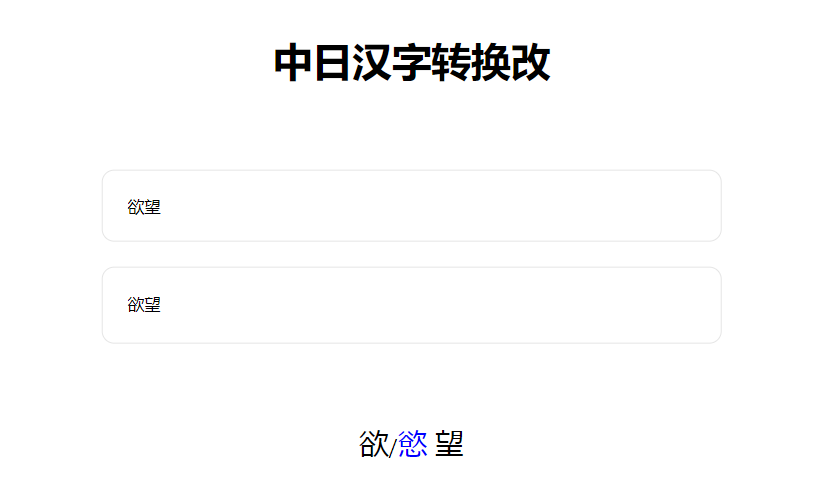
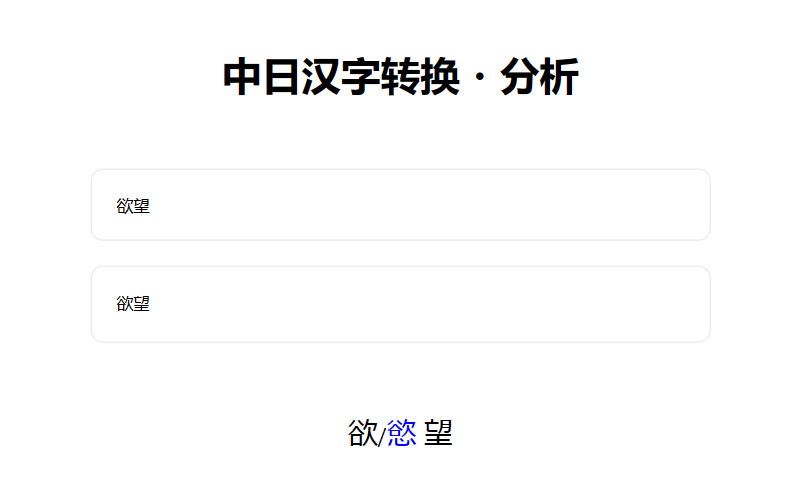
完成Kuromoji部分的README 更改index.html

diff --git a/loadDictionary.js b/loadDictionary.js
@@ -1,3 +1,4 @@
 window.dictionary = {"亚":["亜"],"爱":["愛"],"恶":["悪"],"苇":["葦"],"压":["圧"],"伟":["偉"],"围":["囲"],"为":["為"],"异":["異"],"维":["維"],"纬":["緯"],"违":["違"],"遗":["遺"],"壹":["壱"],"稻":["稲"],"员":["員"],"饮":["飲"],"阴":["陰"],"隐":["隠"],"韵":["韻"],"涡":["渦"],"运":["運"],"营":["営"],"荣":["栄"],"卫":["衛"],"咏":["詠"],"锐":["鋭"],"驿":["駅"],"谒":["謁"],"阅":["閲"],"园":["園"],"烟":["煙"],"缘":["縁"],"远":["遠"],"铅":["鉛"],"盐":["塩"],"污":["汚"],"应":["応"],"冲":["衝"],"亿":["億"],"忆":["憶"],"稳":["穏"],"假":["仮"],"价":["価"],"祸":["禍"],"华":["華"],"课":["課"],"货":["貨"],"过":["過"],"贺":["賀"],"饿":["餓"],"块":["塊"],"坏":["壊"],"怀":["懐"],"绘":["絵"],"开":["開"],"阶":["階"],"贝":["貝"],"该":["該"],"吓":["嚇"],"扩":["拡"],"壳":["殻"],"确":["確"],"觉":["覚"],"较":["較"],"阁":["閣"],"乐":["楽"],"额":["額"],"挂":["掛"],"舄":["潟"],"渴":["渇"],"辖":["轄"],"劝":["勧"],"卷":["巻"],"唤":["喚"],"奸":["姦"],"宽":["寛"],"惯":["慣"],"换":["換"],"欢":["歓"],"汉":["漢"],"环":["環"],"监":["監"],"简":["簡"],"缓":["緩"],"舰":["艦"],"观":["観"],"贯":["貫"],"还":["還"],"鉴":["鑑"],"间":["間"],"闲":["閑"],"关":["関"],"陷":["陥"],"馆":["館"],"顽":["頑"],"颜":["顔"],"愿":["願"],"几":["幾"],"挥":["揮"],"弃":["棄"],"归":["帰"],"气":["気"],"纪":["紀"],"规":["規"],"记":["記"],"贵":["貴"],"轨":["軌"],"辉":["輝"],"饥":["飢"],"骑":["騎"],"伪":["偽"],"仪":["儀"],"戏":["戯"],"拟":["擬"],"义":["義"],"议":["議"],"诘":["詰"],"宫":["宮"],"穷":["窮"],"级":["級"],"纠":["糾"],"给":["給"],"举":["挙"],"许":["許"],"渔":["漁"],"鱼":["魚"],"竞":["競"],"协":["協"],"强":["強"],"桥":["橋"],"况":["況"],"矫":["矯"],"胁":["脅"],"兴":["興"],"乡":["郷"],"镜":["鏡"],"响":["響"],"惊":["驚"],"晓":["暁"],"业":["業"],"极":["極"],"紧":["緊"],"谨":["謹"],"银":["銀"],"驱":["駆"],"缲":["繰"],"勋":["勲"],"熏":["薫"],"训":["訓"],"军":["軍"],"倾":["傾"],"启":["啓"],"惠":["恵"],"庆":["慶"],"揭":["掲"],"溪":["渓"],"经":["経"],"继":["継"],"萤":["蛍"],"计":["計"],"轻":["軽"],"鸡":["鶏"],"鲸":["鯨"],"剧":["劇"],"击":["撃"],"杰":["傑"],"决":["決"],"洁":["潔"],"结":["結"],"俭":["倹"],"剑":["剣"],"圈":["圏"],"坚":["堅"],"宪":["憲"],"悬":["懸"],"检":["検"],"权":["権"],"绢":["絹"],"见":["見"],"谦":["謙"],"贤":["賢"],"轩":["軒"],"险":["険"],"显":["顕"],"验":["験"],"严":["厳"],"减":["減"],"现":["現"],"个":["個"],"库":["庫"],"户":["戸"],"夸":["誇"],"顾":["顧"],"吴":["呉"],"娱":["娯"],"语":["語"],"误":["誤"],"护":["護"],"效":["効"],"广":["広"],"构":["構"],"沟":["溝"],"红":["紅"],"绞":["絞"],"纲":["綱"],"讲":["講"],"贡":["貢"],"购":["購"],"矿":["鉱"],"钢":["鋼"],"项":["項"],"刚":["剛"],"黑":["黒"],"狱":["獄"],"垦":["墾"],"恳":["懇"],"绀":["紺"],"查":["査"],"诈":["詐"],"锁":["鎖"],"债":["債"],"岁":["歳"],"济":["済"],"灾":["災"],"碎":["砕"],"斋":["斎"],"细":["細"],"载":["載"],"际":["際"],"剂":["剤"],"财":["財"],"错":["錯"],"樱":["桜"],"册":["冊"],"杀":["殺"],"杂":["雑"],"伞":["傘"],"栈":["桟"],"暂":["暫"],"姊":["姉"],"师":["師"],"纟":["糸"],"纸":["紙"],"视":["視"],"词":["詞"],"诗":["詩"],"试":["試"],"咨":["諮"],"资":["資"],"赐":["賜"],"饲":["飼"],"齿":["歯"],"儿":["児"],"时":["時"],"玺":["璽"],"识":["識"],"轴":["軸"],"执":["執"],"质":["質"],"实":["実"],"舍":["舎"],"谢":["謝"],"车":["車"],"释":["釈"],"种":["種"],"树":["樹"],"收":["収"],"终":["終"],"习":["習"],"袭":["襲"],"从":["従"],"涩":["渋"],"兽":["獣"],"纵":["縦"],"铳":["銃"],"缩":["縮"],"肃":["粛"],"术":["術"],"润":["潤"],"纯":["純"],"顺":["順"],"绪":["緒"],"书":["書"],"诸":["諸"],"伤":["傷"],"偿":["償"],"胜":["勝"],"奖":["奨"],"涉":["渉"],"烧":["焼"],"绍":["紹"],"讼":["訟"],"诏":["詔"],"详":["詳"],"赏":["賞"],"钟":["鐘"],"乘":["乗"],"剩":["剰"],"场":["場"],"壤":["壌"],"娘":["嬢"],"净":["浄"],"叠":["畳"],"让":["譲"],"酿":["醸"],"锭":["錠"],"饰":["飾"],"织":["織"],"职":["職"],"审":["審"],"绅":["紳"],"亲":["親"],"诊":["診"],"进":["進"],"针":["針"],"寻":["尋"],"阵":["陣"],"图":["図"],"帅":["帥"],"粹":["粋"],"醉":["酔"],"锤":["錘"],"髓":["髄"],"濑":["瀬"],"亩":["畝"],"势":["勢"],"圣":["聖"],"诚":["誠"],"请":["請"],"齐":["斉"],"积":["積"],"绩":["績"],"责":["責"],"迹":["跡"],"摄":["摂"],"设":["設"],"节":["節"],"绝":["絶"],"专":["専"],"战":["戦"],"缐":["線"],"纤":["繊"],"荐":["薦"],"选":["選"],"迁":["遷"],"钱":["銭"],"铣":["銑"],"鲜":["鮮"],"渐":["漸"],"缮":["繕"],"础":["礎"],"组":["組"],"诉":["訴"],"创":["創"],"仓":["倉"],"丧":["喪"],"层":["層"],"搜":["捜"],"扫":["掃"],"插":["挿"],"巢":["巣"],"窗":["窓"],"总":["総"],"骚":["騒"],"增":["増"],"脏":["臓"],"藏":["蔵"],"赠":["贈"],"侧":["側"],"则":["則"],"测":["測"],"贼":["賊"],"续":["続"],"孙":["孫"],"损":["損"],"驮":["駄"],"对":["対"],"带":["帯"],"态":["態"],"贷":["貸"],"队":["隊"],"题":["題"],"泷":["瀧"],"择":["択"],"泽":["沢","澤"],"浊":["濁"],"诺":["諾"],"达":["達"],"夺":["奪"],"单":["単"],"叹":["嘆"],"诞":["誕"],"锻":["鍛"],"团":["団"],"坛":["壇"],"弹":["弾"],"谈":["談"],"值":["値"],"耻":["恥"],"迟":["遅"],"驻":["駐"],"贮":["貯"],"帐":["帳"],"厅":["庁"],"张":["張"],"惩":["懲"],"听":["聴"],"胀":["脹"],"肠":["腸"],"调":["調"],"长":["長"],"顶":["頂"],"鸟":["鳥"],"敕":["勅"],"赁":["賃"],"镇":["鎮"],"陈":["陳"],"坠":["墜"],"冢":["塚"],"渍":["漬"],"钓":["釣"],"侦":["偵"],"贞":["貞"],"缔":["締"],"订":["訂"],"递":["逓"],"敌":["敵"],"适":["適"],"彻":["徹"],"转":["転"],"传":["伝"],"电":["電"],"涂":["塗"],"冻":["凍"],"岛":["島"],"东":["東"],"栋":["棟"],"汤":["湯"],"统":["統"],"讨":["討"],"誊":["謄"],"头":["頭"],"腾":["騰"],"动":["動","働"],"导":["導"],"铜":["銅"],"德":["徳"],"笃":["篤"],"读":["読"],"昙":["曇"],"钝":["鈍"],"绳":["縄"],"软":["軟"],"难":["難"],"贰":["弐"],"认":["認"],"宁":["寧"],"热":["熱"],"恼":["悩"],"浓":["濃"],"纳":["納"],"脑":["脳"],"农":["農"],"霸":["覇"],"马":["馬"],"废":["廃"],"拜":["拝"],"败":["敗"],"辈":["輩"],"买":["買"],"卖":["売"],"赔":["賠"],"缚":["縛"],"发":["発","髪"],"罚":["罰"],"拔":["抜"],"阀":["閥"],"贩":["販"],"范":["範"],"烦":["煩"],"颁":["頒"],"饭":["飯"],"盘":["盤"],"罢":["罷"],"费":["費"],"飞":["飛"],"备":["備"],"笔":["筆"],"标":["標"],"冰":["氷"],"评":["評"],"贫":["貧"],"宾":["賓"],"频":["頻"],"妇":["婦"],"肤":["膚"],"谱":["譜"],"负":["負"],"赋":["賦"],"风":["風"],"复":["復","複"],"拂":["払"],"佛":["仏"],"喷":["噴"],"坟":["墳"],"愤":["憤"],"奋":["奮"],"纷":["紛"],"氛":["雰"],"闻":["聞"],"币":["幣"],"并":["並"],"闭":["閉"],"别":["別"],"变":["変"],"编":["編"],"边":["辺"],"铺":["鋪"],"步":["歩"],"补":["補"],"穗":["穂"],"报":["報"],"缝":["縫"],"访":["訪"],"饱":["飽"],"纺":["紡"],"谋":["謀"],"贸":["貿"],"仆":["僕"],"扑":["撲"],"每":["毎"],"茧":["繭"],"满":["満"],"脉":["脈"],"务":["務"],"梦":["夢"],"无":["無"],"雾":["霧"],"铭":["銘"],"鸣":["鳴"],"灭":["滅"],"绵":["綿"],"网":["網"],"默":["黙"],"问":["問"],"闷":["悶"],"纹":["紋"],"门":["門"],"约":["約"],"药":["薬"],"译":["訳"],"跃":["躍"],"谕":["諭"],"输":["輸"],"优":["優"],"忧":["憂"],"犹":["猶"],"诱":["誘"],"游":["遊"],"邮":["郵"],"预":["預"],"扬":["揚"],"摇":["揺"],"拥":["擁"],"杨":["楊"],"样":["様"],"窑":["窯"],"谣":["謡"],"阳":["陽"],"养":["養"],"罗":["羅"],"赖":["頼"],"络":["絡"],"栏":["欄"],"滥":["濫"],"览":["覧"],"里":["裏","裡","里"],"离":["離"],"陆":["陸"],"虑":["慮"],"虏":["虜"],"两":["両"],"凉":["涼"],"猎":["猟"],"疗":["療"],"粮":["糧"],"领":["領"],"绿":["緑"],"伦":["倫"],"临":["臨"],"轮":["輪"],"垒":["塁"],"泪":["涙"],"类":["類"],"铃":["鈴"],"灵":["霊"],"丽":["麗"],"龄":["齢"],"历":["暦"],"练":["練"],"连":["連"],"炼":["錬"],"劳":["労"],"录":["録"],"论":["論"],"话":["話"],"贿":["賄"],"绚":["絢"],"绫":["綾"],"谓":["謂"],"荫":["陰","蔭"],"乌":["烏"],"窥":["窺"],"呗":["唄"],"鳗":["鰻"],"闰":["閏"],"饵":["餌"],"婴":["嬰"],"颖":["穎"],"颕":["頴"],"厌":["厭"],"焰":["焔"],"艳":["艶"],"鸳":["鴛"],"于":["於"],"袄":["襖"],"莺":["鴬"],"哗":["嘩"],"卧":["臥"],"驾":["駕"],"凯":["凱"],"盖":["蓋"],"铠":["鎧"],"钩":["鈎"],"划":["劃"],"搅":["撹"],"获":["獲"],"顎":["鰍"],"鲣":["鰹"],"桦":["樺"],"鸭":["鴨"],"涧":["澗"],"韩":["韓"],"赝":["贋"],"龟":["亀"],"牺":["犠"],"蚁":["蟻"],"谊":["誼"],"锯":["鋸"],"侨":["僑"],"乔":["喬"],"荞":["蕎"],"飨":["饗"],"仅":["僅"],"锦":["錦"],"钦":["欽"],"俱":["倶"],"驹":["駒"],"栉":["櫛"],"钏":["釧"],"辔":["轡"],"洼":["窪"],"锹":["鍬"],"诣":["詣"],"诀":["訣"],"牵":["牽"],"砚":["硯"],"县":["県"],"键":["鍵"],"谚":["諺"],"钴":["鈷"],"鲤":["鯉"],"纮":["紘"],"鸿":["鴻"],"轰":["轟"],"鹄":["鵠"],"顷":["頃"],"鹭":["鷺"],"栅":["柵"],"鲑":["鮭"],"萨":["薩"],"鲭":["鯖"],"锖":["錆"],"鲛":["鮫"],"灿":["燦"],"产":["産"],"赞":["賛"],"斩":["斬"],"尸":["屍"],"狮":["獅"],"尔":["爾"],"莳":["蒔"],"缟":["縞"],"纱":["紗"],"锡":["錫"],"肿":["腫"],"绶":["綬"],"众":["衆"],"辑":["輯"],"骏":["駿"],"准":["準","准"],"处":["処"],"锄":["鋤"],"尝":["嘗"],"厂":["廠"],"证":["証"],"酱":["醤"],"钲":["鉦"],"扰":["擾"],"烛":["蝕"],"尘":["塵"],"肾":["腎"],"讯":["訊"],"诹":["諏"],"须":["須"],"锥":["錐"],"趋":["趨"],"雏":["雛"],"颇":["頗"],"栖":["棲","栖"],"硕":["碩"],"说":["説"],"诠":["詮"],"贱":["賎"],"闪":["閃"],"苏":["蘇"],"丛":["叢"],"枪":["槍"],"综":["綜"],"苍":["蒼"],"逊":["遜"],"鲷":["鯛"],"鹰":["鷹"],"托":["託"],"铎":["鐸"],"竖":["竪"],"鳕":["鱈"],"谁":["誰"],"绽":["綻"],"驰":["馳"],"铸":["鋳"],"苎":["苧"],"宠":["寵"],"畅":["暢"],"谍":["諜"],"铫":["銚"],"茑":["蔦"],"缀":["綴"],"溃":["潰"],"壶":["壺"],"鹤":["鶴"],"祯":["禎"],"谛":["諦"],"郑":["鄭"],"钉":["釘"],"镝":["鏑"],"辙":["轍"],"铁":["鉄"],"缠":["纏"],"贴":["貼"],"颠":["顛"],"淀":["澱"],"兔":["兎"],"赌":["賭"],"镀":["鍍"],"荡":["蕩"],"镫":["鐙"],"鸨":["鴇"],"秃":["禿"],"鸢":["鳶"],"吨":["噸"],"顿":["頓"],"谜":["謎"],"滩":["灘"],"锅":["鍋"],"驯":["馴"],"赈":["賑"],"祢":["禰","祢"],"脓":["膿"],"骂":["罵"],"狈":["狽"],"这":["這"],"驳":["駁"],"栌":["櫨"],"钵":["鉢"],"鸠":["鳩"],"绯":["緋"],"诽":["誹"],"毕":["畢"],"纽":["紐"],"谬":["謬"],"庙":["廟"],"锚":["錨"],"鳍":["鰭"],"濒":["瀕"],"抚":["撫"],"芜":["蕪"],"枫":["楓"],"渊":["淵"],"鲋":["鮒"],"粪":["糞"],"页":["頁"],"辅":["輔"],"仿":["倣"],"丰":["豊"],"锋":["鋒"],"凤":["鳳"],"鹏":["鵬"],"颊":["頬"],"鲔":["鮪"],"鳟":["鱒"],"鹉":["鵡"],"缅":["緬"],"储":["儲"],"饼":["餅"],"贳":["貰"],"爷":["爺"],"涌":["湧","涌"],"舆":["輿"],"佣":["傭"],"欲":["欲","慾"],"岚":["嵐"],"蓝":["藍"],"兰":["蘭"],"刘":["劉"],"龙":["竜","龍"],"侣":["侶"],"谅":["諒"],"邻":["隣"],"鳞":["鱗"],"岭":["嶺"],"隶":["隷"],"涟":["漣"],"帘":["簾"],"怜":["怜","憐"],"联":["聯"],"莲":["蓮"],"吕":["呂"],"鲁":["魯"],"橹":["櫓"],"赂":["賂"],"娄":["婁"],"聋":["聾"],"鹫":["鷲"],"鳄":["鰐"],"诧":["詫"],"干":["干","乾"]};
 window.shiftjis1List = ["亜", "唖", "娃", "阿", "哀", "愛", "挨", "姶", "逢", "葵", "茜", "穐", "悪", "握", "渥", "旭", "葦", "芦", "鯵", "梓", "圧", "斡", "扱", "宛", "姐", "虻", "飴", "絢", "綾", "鮎", "或", "粟", "袷", "安", "庵", "按", "暗", "案", "闇", "鞍", "杏", "以", "伊", "位", "依", "偉", "囲", "夷", "委", "威", "尉", "惟", "意", "慰", "易", "椅", "為", "畏", "異", "移", "維", "緯", "胃", "萎", "衣", "謂", "違", "遺", "医", "井", "亥", "域", "育", "郁", "磯", "一", "壱", "溢", "逸", "稲", "茨", "芋", "鰯", "允", "印", "咽", "員", "因", "姻", "引", "飲", "淫", "胤", "蔭", "院", "陰", "隠", "韻", "吋", "右", "宇", "烏", "羽", "迂", "雨", "卯", "鵜", "窺", "丑", "碓", "臼", "渦", "嘘", "唄", "欝", "蔚", "鰻", "姥", "厩", "浦", "瓜", "閏", "噂", "云", "運", "雲", "荏", "餌", "叡", "営", "嬰", "影", "映", "曳", "栄", "永", "泳", "洩", "瑛", "盈", "穎", "頴", "英", "衛", "詠", "鋭", "液", "疫", "益", "駅", "悦", "謁", "越", "閲", "榎", "厭", "円", "園", "堰", "奄", "宴", "延", "怨", "掩", "援", "沿", "演", "炎", "焔", "煙", "燕", "猿", "縁", "艶", "苑", "薗", "遠", "鉛", "鴛", "塩", "於", "汚", "甥", "凹", "央", "奥", "往", "応", "点", "押", "旺", "横", "欧", "殴", "王", "翁", "襖", "鴬", "鴎", "黄", "岡", "沖", "荻", "億", "屋", "憶", "臆", "桶", "牡", "乙", "俺", "卸", "恩", "温", "穏", "音", "下", "化", "仮", "何", "伽", "価", "佳", "加", "可", "嘉", "夏", "嫁", "家", "寡", "科", "暇", "果", "架", "歌", "河", "火", "珂", "禍", "禾", "稼", "箇", "花", "苛", "茄", "荷", "華", "菓", "蝦", "課", "嘩", "貨", "迦", "過", "霞", "蚊", "俄", "峨", "我", "牙", "画", "臥", "芽", "蛾", "賀", "雅", "餓", "駕", "介", "会", "解", "回", "塊", "壊", "廻", "快", "怪", "悔", "恢", "懐", "戒", "拐", "改", "魁", "晦", "械", "海", "灰", "界", "皆", "絵", "芥", "蟹", "開", "階", "貝", "凱", "劾", "外", "咳", "害", "崖", "慨", "概", "涯", "碍", "蓋", "街", "該", "鎧", "骸", "浬", "馨", "蛙", "垣", "柿", "蛎", "鈎", "劃", "嚇", "各", "廓", "拡", "撹", "格", "核", "殻", "獲", "確", "穫", "覚", "角", "赫", "較", "郭", "閣", "隔", "革", "学", "岳", "楽", "額", "顎", "掛", "笠", "樫", "橿", "梶", "鰍", "潟", "割", "喝", "恰", "括", "活", "渇", "滑", "葛", "褐", "轄", "且", "鰹", "叶", "椛", "樺", "鞄", "株", "兜", "竃", "蒲", "釜", "鎌", "噛", "鴨", "栢", "茅", "萱", "粥", "刈", "苅", "瓦", "乾", "侃", "冠", "寒", "刊", "勘", "勧", "巻", "喚", "堪", "姦", "完", "官", "寛", "干", "幹", "患", "感", "慣", "憾", "換", "敢", "柑", "桓", "棺", "款", "歓", "汗", "漢", "澗", "潅", "環", "甘", "監", "看", "竿", "管", "簡", "緩", "缶", "翰", "肝", "艦", "莞", "観", "諌", "貫", "還", "鑑", "間", "閑", "関", "陥", "韓", "館", "舘", "丸", "含", "岸", "巌", "玩", "癌", "眼", "岩", "翫", "贋", "雁", "頑", "顔", "願", "企", "伎", "危", "喜", "器", "基", "奇", "嬉", "寄", "岐", "希", "幾", "忌", "揮", "机", "旗", "既", "期", "棋", "棄", "機", "帰", "毅", "気", "汽", "畿", "祈", "季", "稀", "紀", "徽", "規", "記", "貴", "起", "軌", "輝", "飢", "騎", "鬼", "亀", "偽", "儀", "妓", "宜", "戯", "技", "擬", "欺", "犠", "疑", "祇", "義", "蟻", "誼", "議", "掬", "菊", "鞠", "吉", "吃", "喫", "桔", "橘", "詰", "砧", "杵", "黍", "却", "客", "脚", "虐", "逆", "丘", "久", "仇", "休", "及", "吸", "宮", "弓", "急", "救", "朽", "求", "汲", "泣", "灸", "球", "究", "窮", "笈", "級", "糾", "給", "旧", "牛", "去", "居", "巨", "拒", "拠", "挙", "渠", "虚", "許", "距", "鋸", "漁", "禦", "魚", "亨", "享", "京", "供", "侠", "僑", "兇", "競", "共", "凶", "協", "匡", "卿", "叫", "喬", "境", "峡", "強", "彊", "怯", "恐", "恭", "挟", "教", "橋", "況", "狂", "狭", "矯", "胸", "脅", "興", "蕎", "郷", "鏡", "響", "饗", "驚", "仰", "凝", "尭", "暁", "業", "局", "曲", "極", "玉", "桐", "粁", "僅", "勤", "均", "巾", "錦", "斤", "欣", "欽", "琴", "禁", "禽", "筋", "緊", "芹", "菌", "衿", "襟", "謹", "近", "金", "吟", "銀", "九", "倶", "句", "区", "狗", "玖", "矩", "苦", "躯", "駆", "駈", "駒", "具", "愚", "虞", "喰", "空", "偶", "寓", "遇", "隅", "串", "櫛", "釧", "屑", "屈", "掘", "窟", "沓", "靴", "轡", "窪", "熊", "隈", "粂", "栗", "繰", "桑", "鍬", "勲", "君", "薫", "訓", "群", "軍", "郡", "卦", "袈", "祁", "係", "傾", "刑", "兄", "啓", "圭", "珪", "型", "契", "形", "径", "恵", "慶", "慧", "憩", "掲", "携", "敬", "景", "桂", "渓", "畦", "稽", "系", "経", "継", "繋", "罫", "茎", "荊", "蛍", "計", "詣", "警", "軽", "頚", "鶏", "芸", "迎", "鯨", "劇", "戟", "撃", "激", "隙", "桁", "傑", "欠", "決", "潔", "穴", "結", "血", "訣", "月", "件", "倹", "倦", "健", "兼", "券", "剣", "喧", "圏", "堅", "嫌", "建", "憲", "懸", "拳", "捲", "検", "権", "牽", "犬", "献", "研", "硯", "絹", "県", "肩", "見", "謙", "賢", "軒", "遣", "鍵", "険", "顕", "験", "鹸", "元", "原", "厳", "幻", "弦", "減", "源", "玄", "現", "絃", "舷", "言", "諺", "限", "乎", "個", "古", "呼", "固", "姑", "孤", "己", "庫", "弧", "戸", "故", "枯", "湖", "狐", "糊", "袴", "股", "胡", "菰", "虎", "誇", "跨", "鈷", "雇", "顧", "鼓", "五", "互", "伍", "午", "呉", "吾", "娯", "後", "御", "悟", "梧", "檎", "瑚", "碁", "語", "誤", "護", "醐", "乞", "鯉", "交", "佼", "侯", "候", "倖", "光", "公", "功", "効", "勾", "厚", "口", "向", "后", "喉", "坑", "垢", "好", "孔", "孝", "宏", "工", "巧", "巷", "幸", "広", "庚", "康", "弘", "恒", "慌", "抗", "拘", "控", "攻", "昂", "晃", "更", "杭", "校", "梗", "構", "江", "洪", "浩", "港", "溝", "甲", "皇", "硬", "稿", "糠", "紅", "紘", "絞", "綱", "耕", "考", "肯", "肱", "腔", "膏", "航", "荒", "行", "衡", "講", "貢", "購", "郊", "酵", "鉱", "砿", "鋼", "閤", "降", "項", "香", "高", "鴻", "剛", "劫", "号", "合", "壕", "拷", "濠", "豪", "轟", "麹", "克", "刻", "告", "国", "穀", "酷", "鵠", "黒", "獄", "漉", "腰", "甑", "忽", "惚", "骨", "狛", "込", "此", "頃", "今", "困", "坤", "墾", "婚", "恨", "懇", "昏", "昆", "根", "梱", "混", "痕", "紺", "艮", "魂", "些", "佐", "叉", "唆", "嵯", "左", "差", "査", "沙", "瑳", "砂", "詐", "鎖", "裟", "坐", "座", "挫", "債", "催", "再", "最", "哉", "塞", "妻", "宰", "彩", "才", "採", "栽", "歳", "済", "災", "采", "犀", "砕", "砦", "祭", "斎", "細", "菜", "裁", "載", "際", "剤", "在", "材", "罪", "財", "冴", "坂", "阪", "堺", "榊", "肴", "咲", "崎", "埼", "碕", "鷺", "作", "削", "咋", "搾", "昨", "朔", "柵", "窄", "策", "索", "錯", "桜", "鮭", "笹", "匙", "冊", "刷", "察", "拶", "撮", "擦", "札", "殺", "薩", "雑", "皐", "鯖", "捌", "錆", "鮫", "皿", "晒", "三", "傘", "参", "山", "惨", "撒", "散", "桟", "燦", "珊", "産", "算", "纂", "蚕", "讃", "賛", "酸", "餐", "斬", "暫", "残", "仕", "仔", "伺", "使", "刺", "司", "史", "嗣", "四", "士", "始", "姉", "姿", "子", "屍", "市", "師", "志", "思", "指", "支", "孜", "斯", "施", "旨", "枝", "止", "死", "氏", "獅", "祉", "私", "糸", "紙", "紫", "肢", "脂", "至", "視", "詞", "詩", "試", "誌", "諮", "資", "賜", "雌", "飼", "歯", "事", "似", "侍", "児", "字", "寺", "慈", "持", "時", "次", "滋", "治", "爾", "璽", "痔", "磁", "示", "而", "耳", "自", "蒔", "辞", "汐", "鹿", "式", "識", "鴫", "竺", "軸", "宍", "雫", "七", "叱", "執", "失", "嫉", "室", "悉", "湿", "漆", "疾", "質", "実", "蔀", "篠", "偲", "柴", "芝", "屡", "蕊", "縞", "舎", "写", "射", "捨", "赦", "斜", "煮", "社", "紗", "者", "謝", "車", "遮", "蛇", "邪", "借", "勺", "尺", "杓", "灼", "爵", "酌", "釈", "錫", "若", "寂", "弱", "惹", "主", "取", "守", "手", "朱", "殊", "狩", "珠", "種", "腫", "趣", "酒", "首", "儒", "受", "呪", "寿", "授", "樹", "綬", "需", "囚", "収", "周", "宗", "就", "州", "修", "愁", "拾", "洲", "秀", "秋", "終", "繍", "習", "臭", "舟", "蒐", "衆", "襲", "讐", "蹴", "輯", "週", "酋", "酬", "集", "醜", "什", "住", "充", "十", "従", "戎", "柔", "汁", "渋", "獣", "縦", "重", "銃", "叔", "夙", "宿", "淑", "祝", "縮", "粛", "塾", "熟", "出", "術", "述", "俊", "峻", "春", "瞬", "竣", "舜", "駿", "准", "循", "旬", "楯", "殉", "淳", "準", "潤", "盾", "純", "巡", "遵", "醇", "順", "処", "初", "所", "暑", "曙", "渚", "庶", "緒", "署", "書", "薯", "藷", "諸", "助", "叙", "女", "序", "徐", "恕", "鋤", "除", "傷", "償", "勝", "匠", "升", "召", "哨", "商", "唱", "嘗", "奨", "妾", "娼", "宵", "将", "小", "少", "尚", "庄", "床", "廠", "彰", "承", "抄", "招", "掌", "捷", "昇", "昌", "昭", "晶", "松", "梢", "樟", "樵", "沼", "消", "渉", "湘", "焼", "焦", "照", "症", "省", "硝", "礁", "祥", "称", "章", "笑", "粧", "紹", "肖", "菖", "蒋", "蕉", "衝", "裳", "訟", "証", "詔", "詳", "象", "賞", "醤", "鉦", "鍾", "鐘", "障", "鞘", "上", "丈", "丞", "乗", "冗", "剰", "城", "場", "壌", "嬢", "常", "情", "擾", "条", "杖", "浄", "状", "畳", "穣", "蒸", "譲", "醸", "錠", "嘱", "埴", "飾", "拭", "植", "殖", "燭", "織", "職", "色", "触", "食", "蝕", "辱", "尻", "伸", "信", "侵", "唇", "娠", "寝", "審", "心", "慎", "振", "新", "晋", "森", "榛", "浸", "深", "申", "疹", "真", "神", "秦", "紳", "臣", "芯", "薪", "親", "診", "身", "辛", "進", "針", "震", "人", "仁", "刃", "塵", "壬", "尋", "甚", "尽", "腎", "訊", "迅", "陣", "靭", "笥", "諏", "須", "酢", "図", "厨", "逗", "吹", "垂", "帥", "推", "水", "炊", "睡", "粋", "翠", "衰", "遂", "酔", "錐", "錘", "随", "瑞", "髄", "崇", "嵩", "数", "枢", "趨", "雛", "据", "杉", "椙", "菅", "頗", "雀", "裾", "澄", "摺", "寸", "世", "瀬", "畝", "是", "凄", "制", "勢", "姓", "征", "性", "成", "政", "整", "星", "晴", "棲", "栖", "正", "清", "牲", "生", "盛", "精", "聖", "声", "製", "西", "誠", "誓", "請", "逝", "醒", "青", "静", "斉", "税", "脆", "隻", "席", "惜", "戚", "斥", "昔", "析", "石", "積", "籍", "績", "脊", "責", "赤", "跡", "蹟", "碩", "切", "拙", "接", "摂", "折", "設", "窃", "節", "説", "雪", "絶", "舌", "蝉", "仙", "先", "千", "占", "宣", "専", "尖", "川", "戦", "扇", "撰", "栓", "栴", "泉", "浅", "洗", "染", "潜", "煎", "煽", "旋", "穿", "箭", "線", "繊", "羨", "腺", "舛", "船", "薦", "詮", "賎", "践", "選", "遷", "銭", "銑", "閃", "鮮", "前", "善", "漸", "然", "全", "禅", "繕", "膳", "糎", "噌", "塑", "岨", "措", "曾", "曽", "楚", "狙", "疏", "疎", "礎", "祖", "租", "粗", "素", "組", "蘇", "訴", "阻", "遡", "鼠", "僧", "創", "双", "叢", "倉", "喪", "壮", "奏", "爽", "宋", "層", "匝", "惣", "想", "捜", "掃", "挿", "掻", "操", "早", "曹", "巣", "槍", "槽", "漕", "燥", "争", "痩", "相", "窓", "糟", "総", "綜", "聡", "草", "荘", "葬", "蒼", "藻", "装", "走", "送", "遭", "鎗", "霜", "騒", "像", "増", "憎", "臓", "蔵", "贈", "造", "促", "側", "則", "即", "息", "捉", "束", "測", "足", "速", "俗", "属", "賊", "族", "続", "卒", "袖", "其", "揃", "存", "孫", "尊", "損", "村", "遜", "他", "多", "太", "汰", "詑", "唾", "堕", "妥", "惰", "打", "柁", "舵", "楕", "陀", "駄", "騨", "体", "堆", "対", "耐", "岱", "帯", "待", "怠", "態", "戴", "替", "泰", "滞", "胎", "腿", "苔", "袋", "貸", "退", "逮", "隊", "黛", "鯛", "代", "台", "大", "第", "醍", "題", "鷹", "滝", "瀧", "卓", "啄", "宅", "托", "択", "拓", "沢", "濯", "琢", "託", "鐸", "濁", "諾", "茸", "凧", "蛸", "只", "叩", "但", "達", "辰", "奪", "脱", "巽", "竪", "辿", "棚", "谷", "狸", "鱈", "樽", "誰", "丹", "単", "嘆", "坦", "担", "探", "旦", "歎", "淡", "湛", "炭", "短", "端", "箪", "綻", "耽", "胆", "蛋", "誕", "鍛", "団", "壇", "弾", "断", "暖", "檀", "段", "男", "談", "値", "知", "地", "弛", "恥", "智", "池", "痴", "稚", "置", "致", "蜘", "遅", "馳", "築", "畜", "竹", "筑", "蓄", "逐", "秩", "窒", "茶", "嫡", "着", "中", "仲", "宙", "忠", "抽", "昼", "柱", "注", "虫", "衷", "註", "酎", "鋳", "駐", "樗", "瀦", "猪", "苧", "著", "貯", "丁", "兆", "凋", "喋", "寵", "帖", "帳", "庁", "弔", "張", "彫", "徴", "懲", "挑", "暢", "朝", "潮", "牒", "町", "眺", "聴", "脹", "腸", "蝶", "調", "諜", "超", "跳", "銚", "長", "頂", "鳥", "勅", "捗", "直", "朕", "沈", "珍", "賃", "鎮", "陳", "津", "墜", "椎", "槌", "追", "鎚", "痛", "通", "塚", "栂", "掴", "槻", "佃", "漬", "柘", "辻", "蔦", "綴", "鍔", "椿", "潰", "坪", "壷", "嬬", "紬", "爪", "吊", "釣", "鶴", "亭", "低", "停", "偵", "剃", "貞", "呈", "堤", "定", "帝", "底", "庭", "廷", "弟", "悌", "抵", "挺", "提", "梯", "汀", "碇", "禎", "程", "締", "艇", "訂", "諦", "蹄", "逓", "邸", "鄭", "釘", "鼎", "泥", "摘", "擢", "敵", "滴", "的", "笛", "適", "鏑", "溺", "哲", "徹", "撤", "轍", "迭", "鉄", "典", "填", "天", "展", "店", "添", "纏", "甜", "貼", "転", "顛", "伝", "殿", "澱", "田", "電", "兎", "吐", "堵", "塗", "妬", "屠", "徒", "斗", "杜", "渡", "登", "菟", "賭", "途", "都", "鍍", "砥", "砺", "努", "度", "土", "奴", "怒", "倒", "党", "冬", "凍", "刀", "唐", "塔", "塘", "套", "宕", "島", "嶋", "悼", "投", "搭", "東", "桃", "梼", "棟", "盗", "淘", "湯", "涛", "灯", "燈", "当", "痘", "祷", "等", "答", "筒", "糖", "統", "到", "董", "蕩", "藤", "討", "謄", "豆", "踏", "逃", "透", "鐙", "陶", "頭", "騰", "闘", "働", "動", "同", "堂", "導", "憧", "撞", "洞", "瞳", "童", "胴", "萄", "道", "銅", "峠", "鴇", "匿", "得", "徳", "涜", "特", "督", "禿", "篤", "毒", "独", "読", "栃", "橡", "凸", "突", "椴", "届", "鳶", "苫", "寅", "酉", "瀞", "噸", "屯", "惇", "敦", "沌", "豚", "遁", "頓", "呑", "曇", "鈍", "奈", "那", "内", "乍", "凪", "薙", "謎", "灘", "捺", "鍋", "楢", "馴", "縄", "畷", "南", "楠", "軟", "難", "汝", "二", "尼", "弐", "迩", "匂", "賑", "肉", "虹", "廿", "日", "乳", "入", "如", "尿", "韮", "任", "妊", "忍", "認", "濡", "禰", "祢", "寧", "葱", "猫", "熱", "年", "念", "捻", "撚", "燃", "粘", "乃", "廼", "之", "埜", "嚢", "悩", "濃", "納", "能", "脳", "膿", "農", "覗", "蚤", "巴", "把", "播", "覇", "杷", "波", "派", "琶", "破", "婆", "罵", "芭", "馬", "俳", "廃", "拝", "排", "敗", "杯", "盃", "牌", "背", "肺", "輩", "配", "倍", "培", "媒", "梅", "楳", "煤", "狽", "買", "売", "賠", "陪", "這", "蝿", "秤", "矧", "萩", "伯", "剥", "博", "拍", "柏", "泊", "白", "箔", "粕", "舶", "薄", "迫", "曝", "漠", "爆", "縛", "莫", "駁", "麦", "函", "箱", "硲", "箸", "肇", "筈", "櫨", "幡", "肌", "畑", "畠", "八", "鉢", "溌", "発", "醗", "髪", "伐", "罰", "抜", "筏", "閥", "鳩", "噺", "塙", "蛤", "隼", "伴", "判", "半", "反", "叛", "帆", "搬", "斑", "板", "氾", "汎", "版", "犯", "班", "畔", "繁", "般", "藩", "販", "範", "釆", "煩", "頒", "飯", "挽", "晩", "番", "盤", "磐", "蕃", "蛮", "匪", "卑", "否", "妃", "庇", "彼", "悲", "扉", "批", "披", "斐", "比", "泌", "疲", "皮", "碑", "秘", "緋", "罷", "肥", "被", "誹", "費", "避", "非", "飛", "樋", "簸", "備", "尾", "微", "枇", "毘", "琵", "眉", "美", "鼻", "柊", "稗", "匹", "疋", "髭", "彦", "膝", "菱", "肘", "弼", "必", "畢", "筆", "逼", "桧", "姫", "媛", "紐", "百", "謬", "俵", "彪", "標", "氷", "漂", "瓢", "票", "表", "評", "豹", "廟", "描", "病", "秒", "苗", "錨", "鋲", "蒜", "蛭", "鰭", "品", "彬", "斌", "浜", "瀕", "貧", "賓", "頻", "敏", "瓶", "不", "付", "埠", "夫", "婦", "富", "冨", "布", "府", "怖", "扶", "敷", "斧", "普", "浮", "父", "符", "腐", "膚", "芙", "譜", "負", "賦", "赴", "阜", "附", "侮", "撫", "武", "舞", "葡", "蕪", "部", "封", "楓", "風", "葺", "蕗", "伏", "副", "復", "幅", "服", "福", "腹", "複", "覆", "淵", "弗", "払", "沸", "仏", "物", "鮒", "分", "吻", "噴", "墳", "憤", "扮", "焚", "奮", "粉", "糞", "紛", "雰", "文", "聞", "丙", "併", "兵", "塀", "幣", "平", "弊", "柄", "並", "蔽", "閉", "陛", "米", "頁", "僻", "壁", "癖", "碧", "別", "瞥", "蔑", "箆", "偏", "変", "片", "篇", "編", "辺", "返", "遍", "便", "勉", "娩", "弁", "鞭", "保", "舗", "鋪", "圃", "捕", "歩", "甫", "補", "輔", "穂", "募", "墓", "慕", "戊", "暮", "母", "簿", "菩", "倣", "俸", "包", "呆", "報", "奉", "宝", "峰", "峯", "崩", "庖", "抱", "捧", "放", "方", "朋", "法", "泡", "烹", "砲", "縫", "胞", "芳", "萌", "蓬", "蜂", "褒", "訪", "豊", "邦", "鋒", "飽", "鳳", "鵬", "乏", "亡", "傍", "剖", "坊", "妨", "帽", "忘", "忙", "房", "暴", "望", "某", "棒", "冒", "紡", "肪", "膨", "謀", "貌", "貿", "鉾", "防", "吠", "頬", "北", "僕", "卜", "墨", "撲", "朴", "牧", "睦", "穆", "釦", "勃", "没", "殆", "堀", "幌", "奔", "本", "翻", "凡", "盆", "摩", "磨", "魔", "麻", "埋", "妹", "昧", "枚", "毎", "哩", "槙", "幕", "膜", "枕", "鮪", "柾", "鱒", "桝", "亦", "俣", "又", "抹", "末", "沫", "迄", "侭", "繭", "麿", "万", "慢", "満", "漫", "蔓", "味", "未", "魅", "巳", "箕", "岬", "密", "蜜", "湊", "蓑", "稔", "脈", "妙", "粍", "民", "眠", "務", "夢", "無", "牟", "矛", "霧", "鵡", "椋", "婿", "娘", "冥", "名", "命", "明", "盟", "迷", "銘", "鳴", "姪", "牝", "滅", "免", "棉", "綿", "緬", "面", "麺", "摸", "模", "茂", "妄", "孟", "毛", "猛", "盲", "網", "耗", "蒙", "儲", "木", "黙", "目", "杢", "勿", "餅", "尤", "戻", "籾", "貰", "問", "悶", "紋", "門", "匁", "也", "冶", "夜", "爺", "耶", "野", "弥", "矢", "厄", "役", "約", "薬", "訳", "躍", "靖", "柳", "薮", "鑓", "愉", "愈", "油", "癒", "諭", "輸", "唯", "佑", "優", "勇", "友", "宥", "幽", "悠", "憂", "揖", "有", "柚", "湧", "涌", "猶", "猷", "由", "祐", "裕", "誘", "遊", "邑", "郵", "雄", "融", "夕", "予", "余", "与", "誉", "輿", "預", "傭", "幼", "妖", "容", "庸", "揚", "揺", "擁", "曜", "楊", "様", "洋", "溶", "熔", "用", "窯", "羊", "耀", "葉", "蓉", "要", "謡", "踊", "遥", "陽", "養", "慾", "抑", "欲", "沃", "浴", "翌", "翼", "淀", "羅", "螺", "裸", "来", "莱", "頼", "雷", "洛", "絡", "落", "酪", "乱", "卵", "嵐", "欄", "濫", "藍", "蘭", "覧", "利", "吏", "履", "李", "梨", "理", "璃", "痢", "裏", "裡", "里", "離", "陸", "律", "率", "立", "葎", "掠", "略", "劉", "流", "溜", "琉", "留", "硫", "粒", "隆", "竜", "龍", "侶", "慮", "旅", "虜", "了", "亮", "僚", "両", "凌", "寮", "料", "梁", "涼", "猟", "療", "瞭", "稜", "糧", "良", "諒", "遼", "量", "陵", "領", "力", "緑", "倫", "厘", "林", "淋", "燐", "琳", "臨", "輪", "隣", "鱗", "麟", "瑠", "塁", "涙", "累", "類", "令", "伶", "例", "冷", "励", "嶺", "怜", "玲", "礼", "苓", "鈴", "隷", "零", "霊", "麗", "齢", "暦", "歴", "列", "劣", "烈", "裂", "廉", "恋", "憐", "漣", "煉", "簾", "練", "聯", "蓮", "連", "錬", "呂", "魯", "櫓", "炉", "賂", "路", "露", "労", "婁", "廊", "弄", "朗", "楼", "榔", "浪", "漏", "牢", "狼", "篭", "老", "聾", "蝋", "郎", "六", "麓", "禄", "肋", "録", "論", "倭", "和", "話", "歪", "賄", "脇", "惑", "枠", "鷲", "亙", "亘", "鰐", "詫", "藁", "蕨", "椀", "湾", "碗", "腕"];
 window.invalidCharacter = ["ぁ", "あ", "ぃ", "い", "ぅ", "う", "ぇ", "え", "ぉ", "お", "か", "が", "き", "ぎ", "く", "ぐ", "け", "げ", "こ", "ご", "さ", "ざ", "し", "じ", "す", "ず", "せ", "ぜ", "そ", "ぞ", "た", "だ", "ち", "ぢ", "っ", "つ", "づ", "て", "で", "と", "ど", "な", "に", "ぬ", "ね", "の", "は", "ば", "ぱ", "ひ", "び", "ぴ", "ふ", "ぶ", "ぷ", "へ", "べ", "ぺ", "ほ", "ぼ", "ぽ", "ま", "み", "む", "め", "も", "ゃ", "や", "ゅ", "ゆ", "ょ", "よ", "ら", "り", "る", "れ", "ろ", "ゎ", "わ", "ゐ", "ゑ", "を", "ん", "ゔ", "ゕ", "ゖ", "ァ", "ア", "ィ", "イ", "ゥ", "ウ", "ェ", "エ", "ォ", "オ", "カ", "ガ", "キ", "ギ", "ク", "グ", "ケ", "ゲ", "コ", "ゴ", "サ", "ザ", "シ", "ジ", "ス", "ズ", "セ", "ゼ", "ソ", "ゾ", "タ", "ダ", "チ", "ヂ", "ッ", "ツ", "ヅ", "テ", "デ", "ト", "ド", "ナ", "ニ", "ヌ", "ネ", "ノ", "ハ", "バ", "パ", "ヒ", "ビ", "ピ", "フ", "ブ", "プ", "ヘ", "ベ", "ペ", "ホ", "ボ", "ポ", "マ", "ミ", "ム", "メ", "モ", "ャ", "ヤ", "ュ", "ユ", "ョ", "ヨ", "ラ", "リ", "ル", "レ", "ロ", "ヮ", "ワ", "ヰ", "ヱ", "ヲ", "ン", "ヴ", "ヵ", "ヶ", "ヷ", "ヸ", "ヹ", "ヺ", "・", "ー", "ヽ", "ヾ", "ヿ", "゠", "ㇰ", "ㇱ", "ㇲ", "ㇳ", "ㇴ", "ㇵ", "ㇶ", "ㇷ", "ㇸ", "ㇹ", "ㇺ", "ㇻ", "ㇼ", "ㇽ", "ㇾ", "ㇿ",'A', 'B', 'C', 'D', 'E', 'F', 'G', 'H', 'I', 'J', 'K', 'L', 'M','N', 'O', 'P', 'Q', 'R', 'S', 'T', 'U', 'V', 'W', 'X', 'Y', 'Z','a', 'b', 'c', 'd', 'e', 'f', 'g', 'h', 'i', 'j', 'k', 'l', 'm','n', 'o', 'p', 'q', 'r', 's', 't', 'u', 'v', 'w', 'x', 'y', 'z','0', '1', '2', '3', '4', '5', '6', '7', '8', '9', '!', '@', '#','$', '%', '^', '&', '*', '(', ')', '-', '_', '=', '+', '[', ']','{', '}', '|', ';', ':', "'", '"', ',', '.', '<', '>', '/', '?','`', '~','。', '、', '！', '？', '・', '「', '」', '『', '』', '【', '】', '（', '）','《', '》', '〈', '〉', '…', '—', '～', 'ー', '‥', '：', '；', '’', '‘','”', '“', '〝', '〟', '．', '，', '・', '·', '！', '？', '〜', '‥', '＿','※', '＆', '＊', '＄', '＃', '＠', '％', '＋', '－', '／', '＼', '＝', '＾','＾', '＼', '｜', '｀', '￣', '￣']
+window.katakanaToHiraganaMap = {ァ:"ぁ",ア:"あ",ィ:"ぃ",イ:"い",ゥ:"ぅ",ウ:"う",ェ:"ぇ",エ:"え",ォ:"ぉ",オ:"お",カ:"か",ガ:"が",キ:"き",ギ:"ぎ",ク:"く",グ:"ぐ",ケ:"け",ゲ:"げ",コ:"こ",ゴ:"ご",サ:"さ",ザ:"ざ",シ:"し",ジ:"じ",ス:"す",ズ:"ず",セ:"せ",ゼ:"ぜ",ソ:"そ",ゾ:"ぞ",タ:"た",ダ:"だ",チ:"ち",ヂ:"ぢ",ッ:"っ",ツ:"つ",ヅ:"づ",テ:"て",デ:"で",ト:"と",ド:"ど",ナ:"な",ニ:"に",ヌ:"ぬ",ネ:"ね",ノ:"の",ハ:"は",バ:"ば",パ:"ぱ",ヒ:"ひ",ビ:"び",ピ:"ぴ",フ:"ふ",ブ:"ぶ",プ:"ぷ",ヘ:"へ",ベ:"べ",ペ:"ぺ",ホ:"ほ",ボ:"ぼ",ポ:"ぽ",マ:"ま",ミ:"み",ム:"む",メ:"め",モ:"も",ャ:"ゃ",ヤ:"や",ュ:"ゅ",ユ:"ゆ",ョ:"ょ",ヨ:"よ",ラ:"ら",リ:"り",ル:"る",レ:"れ",ロ:"ろ",ヮ:"ゎ",ワ:"わ",ヰ:"ゐ",ヱ:"ゑ",ヲ:"を",ン:"ん",ヴ:"ゔ",ヵ:"ゕ",ヶ:"ゖ",};

diff --git a/index.html b/index.html
@@ -3,7 +3,7 @@
 
 <head>
     <meta http-equiv="Content-Type" content="text/html; charset=utf-8" />
-    <title>中日汉字转换分析Kuromoji</title>
+    <title>中日汉字转换・分析 Kuromoji</title>
     <link rel="icon" href="" type="image/x-icon" />
     <script src='loadDictionary.js'></script>
     <script src="https://CDN.bootcdn.net/ajax/libs/jquery/3.6.0/jquery.min.js"></script>
@@ -37,6 +37,14 @@
             document.getElementById('kuromojiList').innerHTML = "<p></p>";
 
         });
+
+        // 片假转平假
+        function katakanaToHiragana(katakanaText) {
+            return katakanaText
+                .split("")
+                .map((char) => window.katakanaToHiraganaMap[char] || char)
+                .join("");
+        }
 
         function copy(str, isInput, ori) {
             var copyInput = document.createElement('input');
@@ -180,11 +188,14 @@
             console.log(kuromojiPath)
             var kuromojiDomList = new Array();
             for (l = 0; l < kuromojiPath.length; l++) {
-                if (kuromojiPath[l].reading) {
-                    kuromojiDomList.push(`<ruby class="known">${kuromojiPath[l].surface_form} <rt>${kuromojiPath[l].reading}</rt></ruby>`)
+                if (kuromojiPath[l].pos_detail_1 == "空白") {
+                    // 跳过空白符号
+                }
+                else if (kuromojiPath[l].reading) {
+                    kuromojiDomList.push(`<a href="https://dictionary.goo.ne.jp/srch/all/${kuromojiPath[l].surface_form}/m1u/"><ruby class="known">${kuromojiPath[l].surface_form} <rt>${katakanaToHiragana(kuromojiPath[l].reading)}</rt></ruby></a>`)
                 }
                 else {
-                    kuromojiDomList.push(`<ruby class="unknown">${kuromojiPath[l].surface_form} <rt></rt></ruby>`)
+                    kuromojiDomList.push(`<a href="https://dictionary.goo.ne.jp/srch/all/${kuromojiPath[l].surface_form}/m1u/"><ruby class="unknown">${kuromojiPath[l].surface_form} <rt></rt></ruby></a>`)
                 }
             }
             kuromojiListStr = kuromojiDomList.join('');
@@ -321,13 +332,23 @@
             font-size: 0.9em;
         }
 
-        ruby {
-            margin: 15px;
-            position: relative;
-            
+        .kuromoji-list a {
+            color: blue;
+            text-decoration: none;
         }
 
-        .unknown {
+        .kuromoji-list a:hover {
+            /* 下划线 */
+            text-decoration: underline;
+        }
+
+        .kuromoji-list ruby {
+            margin: 15px;
+            position: relative;
+
+        }
+
+        .kuromoji-list .unknown {
             color: grey;
         }
     </style>
@@ -336,7 +357,7 @@
 
 <body>
     <div id='globalContainer'>
-        <a href="https://github.com/Huifusu/Hanzi2Kanji" class="github-corner" aria-label="View source on GitHub"><svg
+        <a href="https://github.com/Huifusu/Hanzi2KanjiKuromoji" class="github-corner" aria-label="View source on GitHub"><svg
                 width="80" height="80" viewBox="0 0 250 250"
                 style="fill:#151513; color:#fff; position: absolute; top: 0; border: 0; right: 0;" aria-hidden="true">
                 <path d="M0,0 L115,115 L130,115 L142,142 L250,250 L250,0 Z"></path>
@@ -381,7 +402,7 @@
             }
         </style>
         <div class='title-box'>
-            <h1>中日汉字转换分析</h1>
+            <h1>中日汉字转换・分析</h1>
         </div>
 
         <div class='input-box'>

diff --git a/README.md b/README.md
@@ -1,10 +1,16 @@
-# 中日汉字转换器改
+# 中日汉字转换・分析器
 
 本仓库forked自[https://github.com/manakanemu/ctoj](https://github.com/manakanemu/ctoj)。
 
 原转换器年久失修，且支持的汉字覆盖太少。
 
-**本网站针对shift-jis第一梯队的所有日文汉字进行了逐一排查，整理出了一份基本覆盖日常需要的中日汉字转换表。**
+**本网站针对shift-jis第一梯队的所有进行了逐一排查，整理出了一份基本覆盖日常需要的中日汉字转换表。**
+
+同时，该网站使用了[Kuromoji](https://www.atilika.com/ja/kuromoji/)对转换后的汉字进行分析，可以快速获取读音，查询词义等。
+
+网页中分析部分使用了来自[Kuromoji.js](https://github.com/takuyaa/kuromoji.js)的代码。该仓库采用和Kuromoji.js仓库相同的许可证（Apache License Version 2.0）。
+
+Kuromoji的字典加载需要一定时间，如果不需要使用分析功能请移步：[中日汉字转换器改](https://github.com/Huifusu/Hanzi2Kanji/)
 
 ## 网站介绍
 
@@ -14,11 +20,15 @@
 
 ## 使用方法
 
-打开[转换网页](https://kanji.rdfzftxx.xyz/)，在“请输入中文”文本框内输入或粘贴中文，对应的日文会实时翻译在下面的文本框内。
+打开[转换网页](https://kanjik.rdfzftxx.xyz/)，在“请输入中文”文本框内输入或粘贴中文，对应的日文会实时翻译在下面的文本框内。
 
 文本框下方的空白区域会出现转换后的汉字列表，点击对应汉字后会跳转到[Sljfaq.Org漢字字典](https://kanji.sljfaq.org/k/)的对应汉字页面。
 
-#### 文字类型
+汉字列表下方会出现单词区，点击对应单词后会跳转到[goo辞書](https://dictionary.goo.ne.jp/ "的词语搜索页面")的对应单词搜索页面。
+
+#### 汉字列表
+
+##### 汉字颜色
 
 转换后的文字在汉字列表中会显示三种颜色：`蓝色 / 黑色 / 灰色`
 
@@ -32,7 +42,7 @@
 
 `灰色` ：shift-jis第一梯队中没有找到对应的汉字。输入可能不是汉字，或是无法识别的汉字。
 
-#### 复数对应
+##### 复数对应
 
 当出现中文汉字对应多个日语汉字时，下方的汉字列表会出现复数对应的汉字。
 
@@ -41,3 +51,17 @@
 复数对应的汉字以 `/` 分隔。此时的汉字仍然遵循文字类型的标色。
 
 文字框中以第一位的汉字进行显示。如有需要请自行进行替换。
+
+#### Kuromoji词语分析
+
+Kuromoji在开始时需要加载字典，请等待提示消失后使用。
+
+Kuromoji提供了分词解析的功能，能够将转换后的词语分词并链接到词典。
+
+![1690431479415](image/README/1690431479415.png)
+
+如图，转换后的词语会进行标音后显示，并链接到词典的查询页面。
+
+显示灰色的词语代表无法查找到。这个词语可能是一个英语词语或是无法识别的词语。
+
+![1690432203083](image/README/1690432203083.png)
